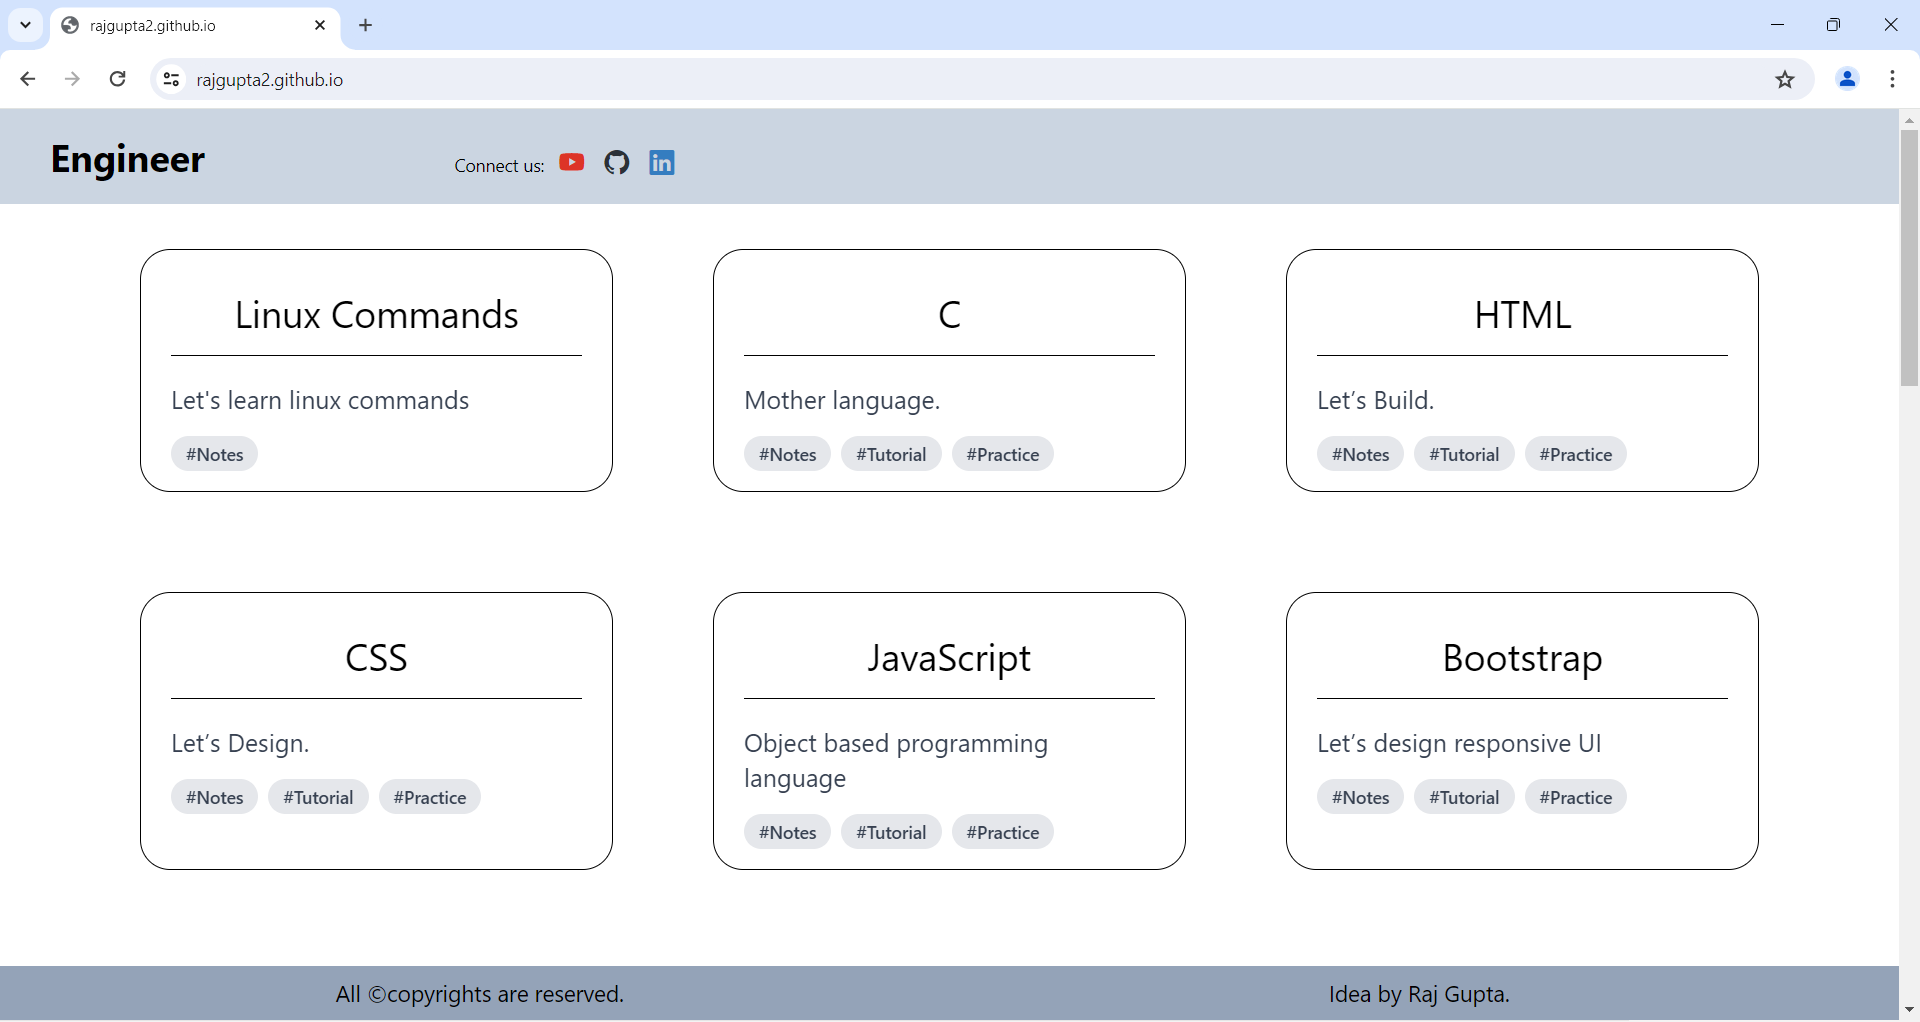
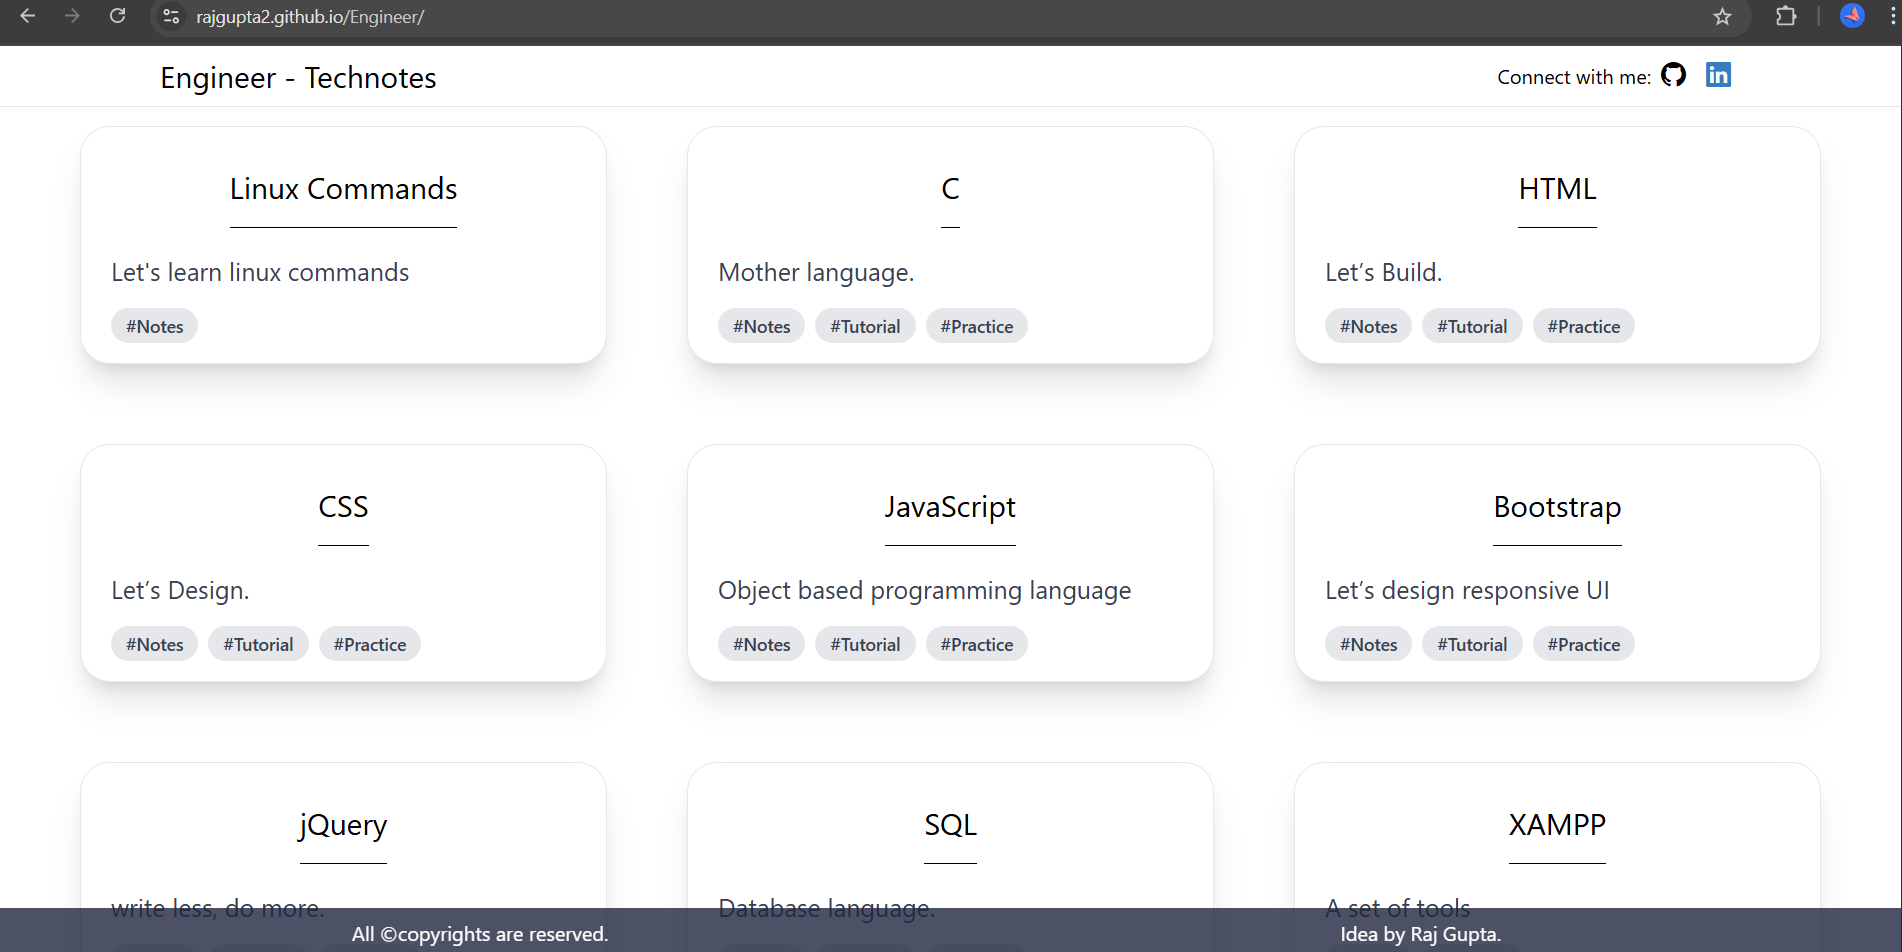
Improving UI

diff --git a/app/projects/projectList.js b/app/projects/projectList.js
@@ -35,7 +35,7 @@ const Projects_data = [
   },
   {
     id: 3,
-    name: "Engineer ",
+    name: "Engineer - Technotes ",
     desc: "The Engineer website focused on studying and contributing to works and notes.",
     stack: "Next-JS Tailwind-CSS  Git",
     gitHubUrl: {
@@ -48,20 +48,20 @@ const Projects_data = [
     },
     imgUrl: "Engineer.png",
   },
-  {
-    id:4 ,
-    name: "My own Portfolio",
-    desc: "My portfolio includes a career summary, personal introduction, my projects and my skills. ",
-    stack: "Next-JS Bootstrap CSS JSX Git",
-    gitHubUrl: {
-      icon: <GrGithub />,
-      url: "https://github.com/rajgupta2/Raj-Gupta-Portfolio",
-    },
-    website: {
-      icon: <TbWorld />,
-      url: "https://raj-gupta-portfolio.netlify.app/",
-    },
-    imgUrl: "Portfolio.png",
-  },
+  // {
+  //   id:4 ,
+  //   name: "My own Portfolio",
+  //   desc: "My portfolio includes a career summary, personal introduction, my projects and my skills. ",
+  //   stack: "Next-JS Bootstrap CSS JSX Git",
+  //   gitHubUrl: {
+  //     icon: <GrGithub />,
+  //     url: "https://github.com/rajgupta2/Raj-Gupta-Portfolio",
+  //   },
+  //   website: {
+  //     icon: <TbWorld />,
+  //     url: "https://raj-gupta-portfolio.netlify.app/",
+  //   },
+  //   imgUrl: "Portfolio.png",
+  // },
 ];
 export default Projects_data;

diff --git a/app/contact/page.js b/app/contact/page.js
@@ -4,7 +4,7 @@ import { Bounce, Fade, Reveal } from 'react-awesome-reveal';
 const whereToFind = [
     {
         name: 'LinkedIn',
-        url: 'https://www.linkedin.com/in/raj-gupta-6b5655291'
+        url: 'https://www.linkedin.com/in/raj-gupta-ckt'
     },
     {
         name: 'Github',
@@ -20,13 +20,11 @@ function FindMeHere(props) {
     return (
         props.ContactList.map((e, index) => {
             return (
-                <Fade left key={index}>
-                    <div className='mt-5 mb-5'>
-                        <a href={e.url} className='my_btn'>
+                    <div className='mt-5 mb-5' key={index}>
+                        <a href={e.url} className='btn btn-lg border border-primary w-25'>
                             <span>{e.name}</span>
                         </a>
                     </div>
-                </Fade>
             );
         })
     );
@@ -35,19 +33,13 @@ export default function ContactPage() {
     return (
         <>
             <div className="row">
-                <Bounce >
-                    <h1 className="switching-color"> Contact Me </h1>
-                </Bounce>
+                <h1 className="switching-color"> Contact Me </h1>
             </div>
             <div className="row">
                 <div className="col-12 col-md-5 col-lg-5">
-                    <Fade bottom>
-                        <h3 style={{fontWeight:'lighter'}}> Want to connect with me?</h3>
-                        <h3 style={{fontWeight:'lighter'}}> Find me here...</h3>
-                    </Fade>
-                    <Reveal>
+                        <h3> Want to connect with me?</h3>
+                        <h3> Find me here...</h3>
                         <FindMeHere ContactList={whereToFind} />
-                    </Reveal>
                 </div>
                 <div className="col-12 col-md-7 col-lg-7">
                     <iframe

diff --git a/app/about/page.js b/app/about/page.js
@@ -7,31 +7,33 @@ const About = () => {
         <>
             <div className="row">
                 <h1 className="switching-color">
-                    <Bounce>About me</Bounce>
+                    About me
                 </h1>
             </div>
             <div className="row">
                 {/* <div className="col-12 col-md-4 col-lg-4 pt-3">
                     <Image src="/Raj-img.jpeg" alt="Raj-Gupta-Image" width={'253'} height={'320'} className={styles.about_image}/>
                 </div> */}
-                <div className={"col-12 col-md-8 col-lg-8 pt-3 "+ styles.about_text}>
+                <div className={"col-12  pt-3 "+ styles.about_text}>
                     <Fade>
                         <p className="text-justify">
-                            I am a full stack developer with expertise in <b className="text-success">MERN stack, .NET MVC and .NET Core. </b><br/>
-                            I also have a experience working with <b className="text-success">AWS cloud resources and devops culture.</b>
+                            I have <b>recently completed</b> my bachelor's degree in <b>B.Tech (Information Technology) </b> from Mahatma Gandhi Chitrakoot Gramodaya Vishwavidayalya, Chitrakoot, Satna, Madhya Pradesh.
+                        </p>
+                        <p>
+                            During my <b>academic journey</b>, I built several <b>real world projects</b> using the <b>MERN stack, Next.js, and tools like Tailwind CSS and Git</b>.
                         </p>
                     </Fade>
-                    <Fade bottom>
+                    <Fade>
                         <p className="text-justify">
-                             Apart from that, I am graduating in June 2025 with the<b className="switching-color"> B.Tech degree in Information Technology </b>
-                            from Mahatma Gandhi Chitrakoot Gramodaya Vishwavidyalaya, Chitrakoot.
+                            I have a strong foundation in <b>full stack web development</b> and a growing interest in DevOps and <b>cloud technologies</b>.
+                            I’m now <b>looking for opportunities </b>where I can grow <b>as a web developer or cloud trainee</b> , contribute to meaningful projects, and learn from experienced teams.
                         </p>
                     </Fade>
                 </div>
             </div>
             <div className="row">
                 <Fade left className='mt-4 mb-4'>
-                    <a href="/contact" className="my_btn">
+                    <a href="/contact" className="btn btn-lg border-primary">
                         <span className='text-primary p-5 m-4'>Contact me</span>
                     </a>
                 </Fade>

diff --git a/app/projects/page.js b/app/projects/page.js
@@ -8,10 +8,10 @@ import Image from 'next/image.js';
 const Project = (props) => {
     const { imgUrl, name, desc, stack, gitHubUrl, website } = props;
     return (
-        <Fade bottom>
-            <div className="mb-3 section_single_projects">
-                <Image src={"/"+imgUrl} alt="project-image" width={0} height={0} sizes="100vw" />
-                <div className="project_contents">
+            <div className="p-5 m-2 section_single_projects border-2 border-info">
+                <h1 className='text-sky-500'>{name}</h1>
+                <Image src={"/"+imgUrl} alt="project-image" width={0} height={0} sizes="100vw" className='border border-2 border-black'/>
+                {/* <div className="project_contents">
                     <div className='project_description text-justify'>
                         <div className="switching-color">{name}</div>
                         <div className='text-justify'>{desc}</div>
@@ -26,9 +26,8 @@ const Project = (props) => {
                             {website.icon}
                         </a>
                     </div>
-                </div>
+                </div> */}
             </div>
-        </Fade>
     );
 };
 
@@ -36,16 +35,12 @@ export default function Projects() {
     return (
         <>
             <div className='row'>
-                <Bounce >
-                    <h1 className="switching-color">My Projects </h1>
-                </Bounce>
+                <h1 className="switching-color">My Projects </h1>
             </div>
             <div className='row'>
-                <Fade bottom>
                     <p style={{ fontSize: 'larger' }}>
                         These are some of the projects I have worked on.
                     </p>
-                </Fade>
             </div>
             <div className='row'>
                 <div className='col-12 col-md-12 col-lg-12'>

diff --git a/app/skills/page.js b/app/skills/page.js
@@ -8,8 +8,7 @@ import { useState } from 'react';
 function MapSkills() {
     return (
         skillsList.map((item, index) => (
-            <div key={index} className={"col-12 col-md-2 col-lg-2 " + styles.skill_item}>
-                <Fade bottom >
+            <div key={index} className={"col-12 col-md-2 col-lg-2 border shadow " + styles.skill_item}>
                     <a
                         href={item.url}
                         target="_blank"
@@ -18,7 +17,6 @@ function MapSkills() {
                         <span className='switching-color h1'>{item.icon} </span><br />
                         <span className="text-success btn">{item.spanText}</span>
                     </a>
-                </Fade>
             </div>
         )));
 }
@@ -66,25 +64,21 @@ export default function Skills() {
     return (
         <>
             <div className='row'>
-                <Bounce >
                     <h1 className="switching-color"> Skills </h1>
-                </Bounce>
             </div>
             <div className='row'>
-                <Fade>
                     <p className={styles.skill_text}   >
                         Yes, I am always eager to learn new technologies.
                     </p>
-                </Fade>
             </div>
-            <div className="row  mb-3 text-center">
+            {/* <div className="row  mb-3 text-center">
                 <div className='col-6 col-md-6 col-lg-6 border border-primary'>
                     <div className='btn text-white' style={{ width: '100%' }} onClick={() => { setSkills(<MapSkills />) }}>Skills Box</div>
                 </div>
                 <div className='col-6 col-md-6 col-lg-6 border border-primary'>
                     <div className='btn text-white' style={{ width: '100%' }} onClick={() => { setSkills(<MapDesSkills />) }}>Skills description</div>
                 </div>
-            </div>
+            </div> */}
             <div className="row">
                 {
                     useSkills

diff --git a/Models/nav-link.js b/Models/nav-link.js
@@ -43,10 +43,10 @@ const navlink = [
     //     icon: <SiProgress className="link-icon" />,
     //     url: "works",
     // },
-    {
-      text: "Resume",
-      icon: <RxResume className="link-icon" />,
-      url: "resume",
-  },
+  //   {
+  //     text: "Resume",
+  //     icon: <RxResume className="link-icon" />,
+  //     url: "resume",
+  // },
   ];
 export default navlink;

diff --git a/app/globals.css b/app/globals.css
@@ -7,11 +7,11 @@
 
 .navbar {
   z-index: 1000;
-  background-color: rgba(93, 61, 61, 0.765);
+  background-color: rgba(255, 255, 255);
 }
 
 .switching-color {
-  color: #fbbf24 !important;
+  color: #202cda !important;
 }
 
 .nav-link,
@@ -66,7 +66,7 @@
   border: 2px solid;
   border-radius: 0px 16px 0px 16px;
   border-color: #1d25d8d6;
-  color: white;
+  /* color: white; */
   text-decoration: none;
 }
 
@@ -76,7 +76,7 @@ a{
 table,tr,td{
   border:1px solid white !important;
   background-color: black !important;
-  color: white !important;
+  color: white;
   a{
     color:rgb(255, 255, 255) !important;
   }

diff --git a/app/layout.js b/app/layout.js
@@ -14,7 +14,7 @@ export default function Layout({ children }) {
         <meta name="description" content="It is a Raj Gupta portfolio, showing his skills, projects, and contacts."/>
         <meta name="google-site-verification" content="008JgsUeBih0IuChXpLy5t96SrF78JfO5Y1-8raKKcc" />
       </head>
-      <body className='bg-black text-white'>
+      <body className=''>
         <div className='container-fluid'>
           <div id="navbar" className='row'>
             <Navbar />
@@ -22,9 +22,9 @@ export default function Layout({ children }) {
           <div id="main">
             {children}
           </div>
-          <div id="footer" className='row'>
+          <div id="footer" className='row border border-top pt-2'>
             <div className='col-12 col-md-12 col-lg-12'>
-              <h6 className="text-center" style={{fontWeight:'lighter'}}>All &copy; are reserved - Raj Gupta - 2025</h6>
+              <h6 className="text-center">All &copy; are reserved - Raj Gupta - 2025</h6>
             </div>
           </div>
         </div>

diff --git a/Components/Hero.module.css b/Components/Hero.module.css
@@ -1,25 +1,20 @@
 @media screen and (max-width:576px) {
     #Hero {
-      font-weight:lighter;
       font-size: 30px !important;
-
     }
 }
 @media screen and (min-width:576px)and (max-width:762px) {
     #Hero {
-      font-weight:lighter;
       font-size: 35px !important;
     }
 }
 @media screen and (min-width:762px)and (max-width:991px) {
     #Hero {
-      font-weight:lighter;
       font-size: 52px !important;
     }
 }
 @media screen and (min-width:991px) {
     #Hero {
-      font-weight:lighter;
       font-size: 82px !important;
     }
 }

diff --git a/app/skills/skills.module.css b/app/skills/skills.module.css
@@ -2,16 +2,15 @@
     border-radius: 10px 10px 10px 10px;
     text-align: center;
     text-decoration: none;
-    background-color: rgb(30 41 59);
     padding-top: 52px;
     padding-bottom: 62px;
     margin-top:12px;
     margin-bottom:12px;
 }
 .skill_item:hover{
-    background-color: none;
+    transform: translateY(-15px);
+    box-shadow: 0 0 15px rgba(0,0,0,0.2);
 }
-
 @media screen and (max-width:576px) {
     .skill_text {
         font-size: normal;

diff --git a/app/about/about.module.css b/app/about/about.module.css
@@ -7,7 +7,7 @@
     max-height: 75vh;
 }
 .about_text{
-    font-weight: lighter;
+    /* font-weight: light; */
 }
 @media screen and (min-width:786px) {
     .about_text {
@@ -21,7 +21,7 @@
 }
 @media screen and (min-width:1024px) {
     .about_text {
-        font-size: 25px;
+        font-size: 22px;
     }
 }
 

diff --git a/Components/Hero.jsx b/Components/Hero.jsx
@@ -33,7 +33,7 @@ export default function Hero() {
           </div>
 
           <Fade left className='mt-4 mb-4'>
-            <a href="Raj Gupta.pdf" download className="my_btn">
+            <a href="Raj Gupta.pdf" download className="btn btn-lg border border-primary">
               <span className='p-5 mt-2 text-primary'>Download Resume</span>
             </a>
           </Fade>